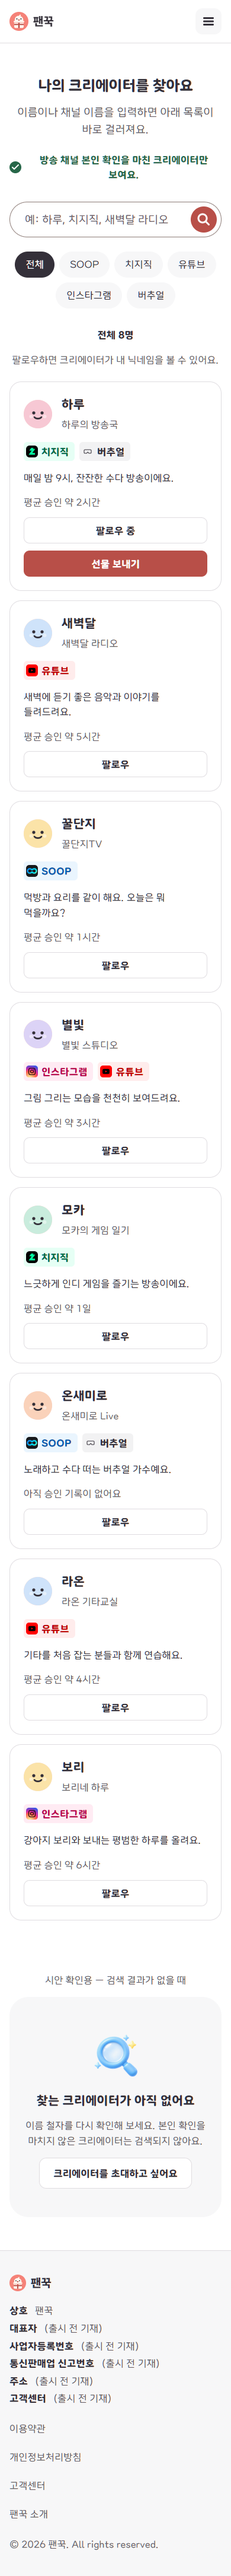
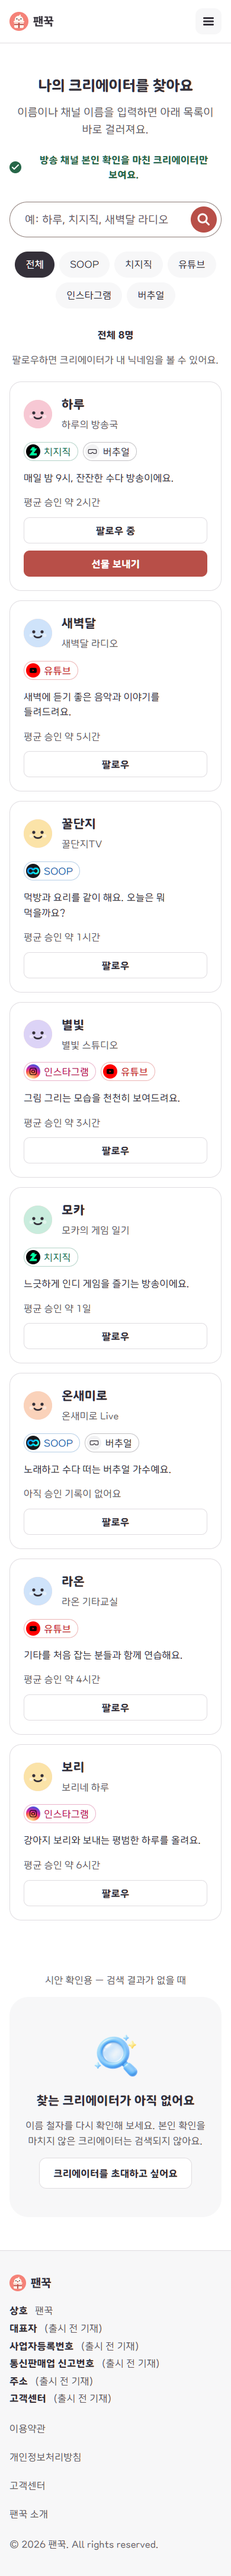
docs(fankkuk): v11 플랫폼 뱃지 — 테두리 알약·보통 굵기·동그란 로고, 마우스를 올리면 연한 색 배경 (사용자 선택 A+B)
Claude-Session: https://claude.ai/code/session_012ZzUPkDyX6EmouyR5g4nGM

diff --git a/projects/fankkuk/docs/design/mockups/site/v11/v11.css b/projects/fankkuk/docs/design/mockups/site/v11/v11.css
@@ -568,3 +568,11 @@ fieldset.part > legend{float:left;width:100%;margin:0 0 12px;padding:0}
 fieldset.part > legend + *{clear:both}
 .page-support .acc{max-width:720px}
 @media(max-width:767px){.table td:last-child{white-space:normal}}
+
+/* ---------- 13. 플랫폼 뱃지 (2026-10-13 사용자 선택: 테두리 알약, 마우스를 올리면 연한 색 배경) ---------- */
+.ctag{font-weight:400;border-radius:var(--r-pill);padding:4px 12px 4px 4px;gap:6px;background:#fff;
+  box-shadow:inset 0 0 0 1px color-mix(in srgb,var(--k,#343039) 30%,#fff);transition:background-color .15s ease}
+.ctag:hover{background:var(--f,#f2f2f3)}
+.ctag .bd{width:24px;height:24px;border-radius:50%}
+.ctag svg{width:24px;height:24px;padding:3px;border-radius:50%;background:#f2f2f3}
+@media (prefers-reduced-motion:reduce){.ctag{transition:none}}
